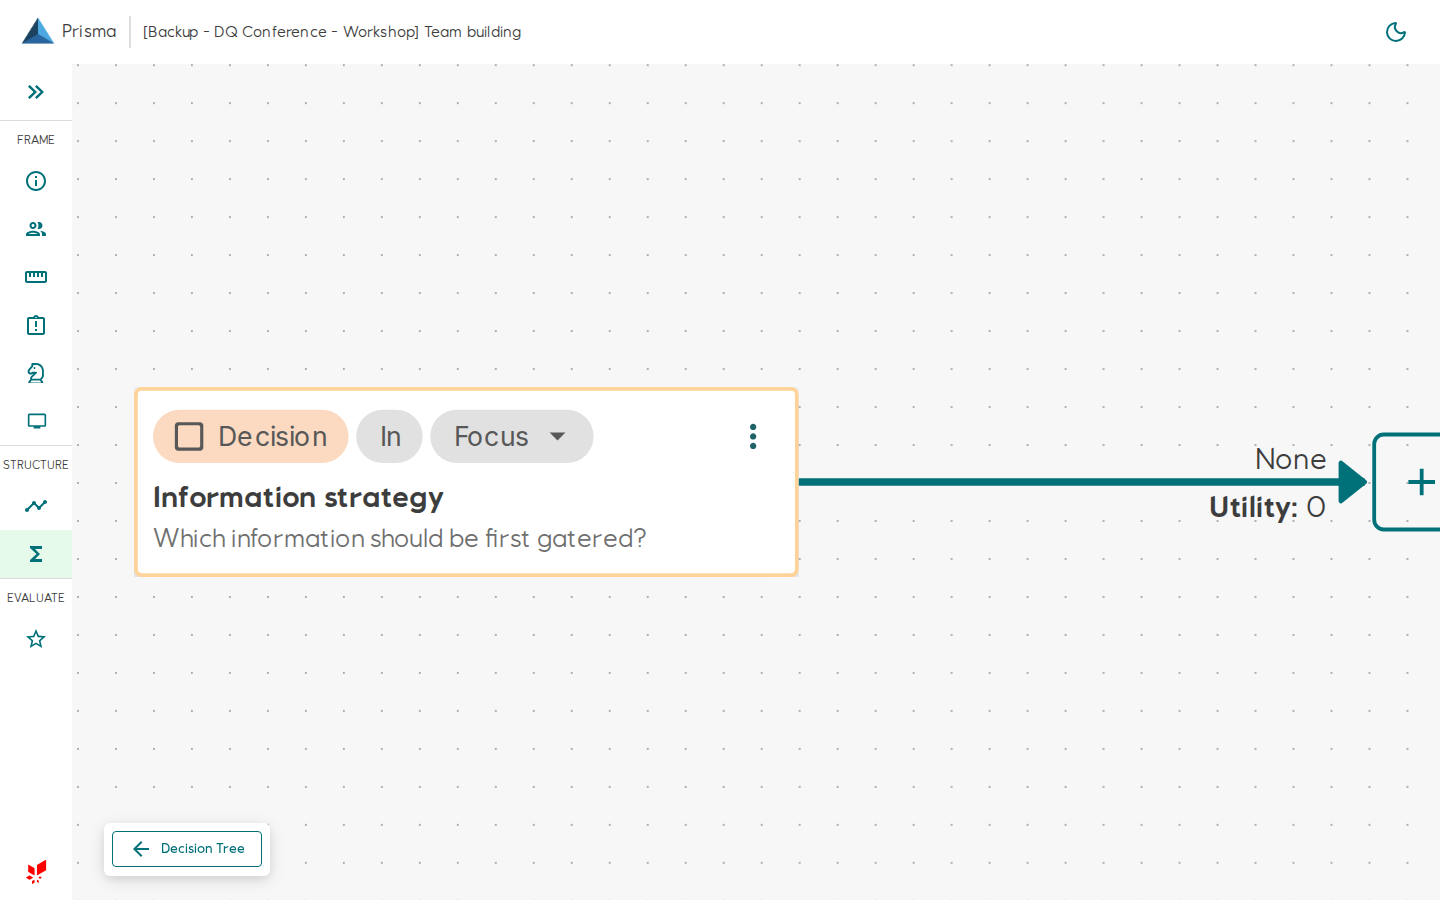
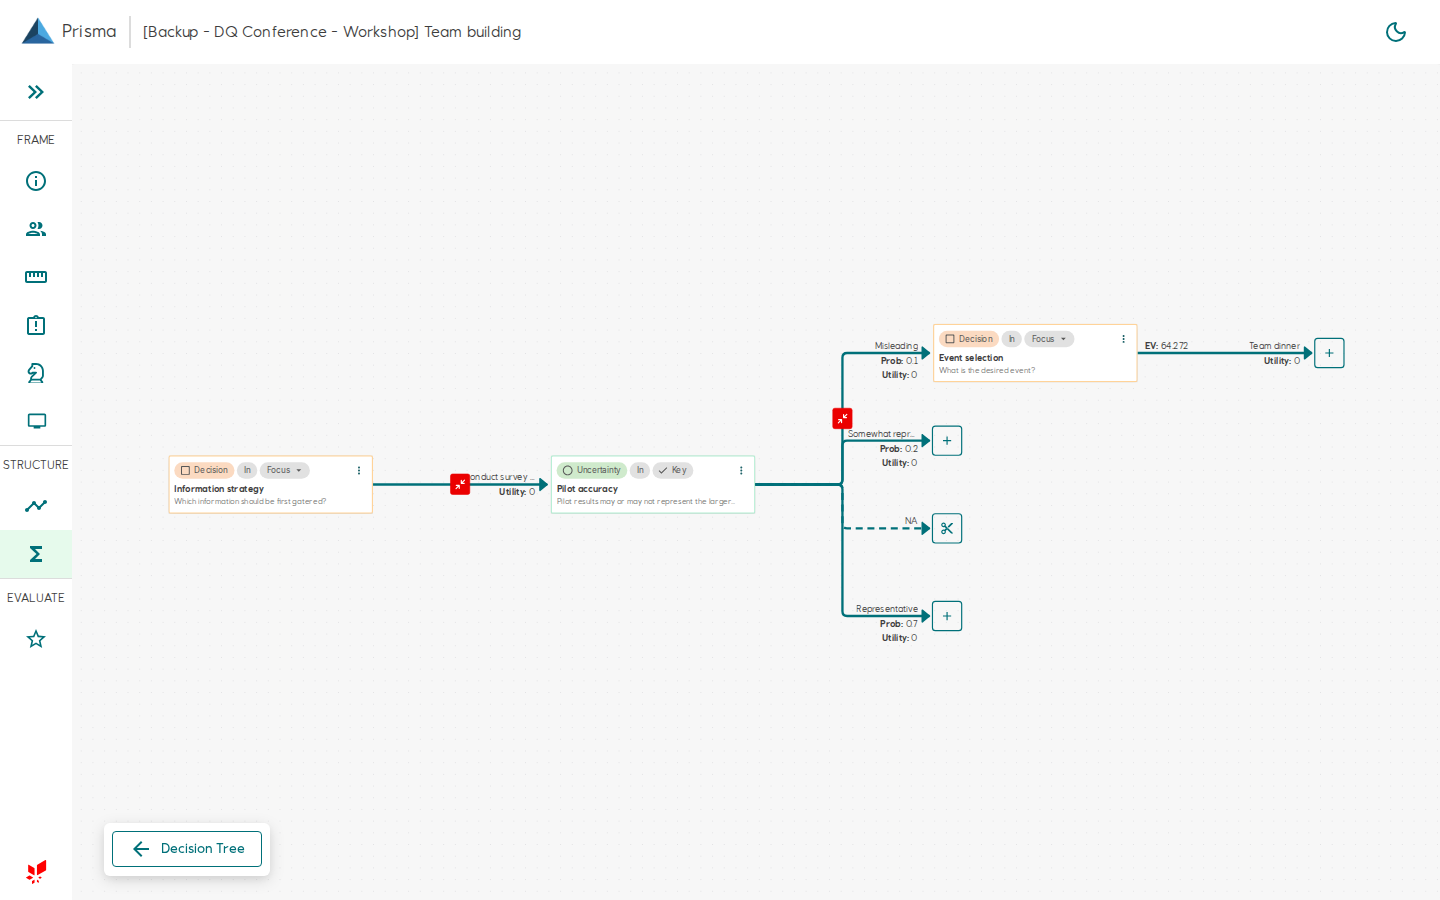
QC until decision tree

diff --git a/workflow/pages/issues.md b/workflow/pages/issues.md
@@ -78,7 +78,7 @@ The information popup explains which issues enter the influence diagram: Focus d
 
 ## Edit issue details
 
-Review the description, boundary, and type-specific details before saving. For a decision, add explicit options and choose **Focus** for the main choice, **Policy** for a choice already taken as given, or **Tactical** for a supporting choice. For an uncertainty, add explicit outcomes and review **Is Key**. A title alone does not provide the states required by the solver. The **Utility** field next to each option or outcome is a value contribution associated with that state, not its probability. For example, an option with a cost of 100 could have utility -100 if the model's values use the same monetary units. These state values contribute to calculated results in addition to values in Utility issue tables, so avoid counting the same effect twice. Leave a state utility at 0 when it has no separate value contribution; this does not mean an uncertainty outcome is impossible. Enter uncertainty probabilities separately in the uncertainty's **Probability Table** on the influence diagram. 
+Review the description, boundary, and type-specific details before saving. For a decision, add explicit options and choose **Focus** for the main choice, **Policy** for a choice already taken as given, or **Tactical** for a supporting choice. For an uncertainty, add explicit outcomes and review **Is Key**. A title alone does not provide the states required by the solver. The **Utility** field next to each option or outcome is a value contribution associated with that state, not its probability. For example, an option with a cost of 100 could have utility -100 if the model's values use the same monetary units. These state values contribute to calculated results in addition to values in Utility issue tables, so avoid counting the same effect twice. Leave a state utility at 0 when it has no separate value contribution; this does not mean an uncertainty outcome is impossible. Enter uncertainty probabilities separately in the uncertainty's **Probability Table** on the influence diagram.
 
 ![Edit Issue window](<../figures/issues/window - Edit Issue.png>)
 

diff --git a/workflow/figures/issues/window - Edit Issue.md b/workflow/figures/issues/window - Edit Issue.md
@@ -1,5 +1,5 @@
 ## Edit an issue
 
-Review the description, boundary, and type-specific details before saving. For a decision, add explicit options and choose **Focus** for the main choice, **Policy** for a choice already taken as given, or **Tactical** for a supporting choice. For an uncertainty, add explicit outcomes and review **Is Key**. A title alone does not provide the states required by the solver. The **Utility** field next to each option or outcome is a value contribution associated with that state, not its probability. For example, an option with a cost of 100 could have utility -100 if the model's values use the same monetary units. These state values contribute to calculated results in addition to values in Utility issue tables, so avoid counting the same effect twice. Leave a state utility at 0 when it has no separate value contribution; this does not mean an uncertainty outcome is impossible. Enter uncertainty probabilities separately in the uncertainty's **Probability Table** on the influence diagram. Use fractions from 0 to 1 and check that each applicable row sums to 1.
+Review the description, boundary, and type-specific details before saving. For a decision, add explicit options and choose **Focus** for the main choice, **Policy** for a choice already taken as given, or **Tactical** for a supporting choice. For an uncertainty, add explicit outcomes and review **Is Key**. A title alone does not provide the states required by the solver. The **Utility** field next to each option or outcome is a value contribution associated with that state, not its probability. For example, an option with a cost of 100 could have utility -100 if the model's values use the same monetary units. These state values contribute to calculated results in addition to values in Utility issue tables, so avoid counting the same effect twice. Leave a state utility at 0 when it has no separate value contribution; this does not mean an uncertainty outcome is impossible. Enter uncertainty probabilities separately in the uncertainty's **Probability Table** on the influence diagram.
 
 ![Edit Issue window](<./window - Edit Issue.png>)

diff --git a/workflow/figures/influence_diagram/window - Utility Table.md b/workflow/figures/influence_diagram/window - Utility Table.md
@@ -1,7 +1,7 @@
 ## Enter values in a utility table
 
-When a value depends only on one decision or uncertainty, enter its contribution in the **Utility** field for each option or outcome in the issue editor; a separate Utility issue is not needed. See the Issues guide for editing issue details. These values are not probabilities.
+When a value depends only on one decision or uncertainty, enter its contribution in the **Utility** field for each option or outcome in the issue editor; a separate Utility issue is not accepted by Prisma. See the Issues guide for editing issue details.
 
-When a value depends jointly on two or more issues, create a **Utility** issue and connect each parent to it. In Card view, open the Utility issue's **Issue actions** menu and select **Utility Table**. Each row represents a combination of parent states; enter its value under **Default metric** and leave the cell to save. The table and solver require at least two parents. State utilities and Utility tables both contribute to the model's total value, so do not count the same effect twice.
+When a value depends jointly on two or more issues, create a **Utility** issue and connect each parent to it. In Card view, open the Utility issue's **Issue actions** menu and select **Utility Table**. Each row represents a combination of parent states; enter its value under **Default metric** and leave the cell to save. State utilities and Utility tables both contribute additively to the model's total value, so do not count the same effect twice.
 
 ![Success utility table with two parent uncertainties](<./window - Utility Table.png>)

diff --git a/workflow/pages/influence_diagram.md b/workflow/pages/influence_diagram.md
@@ -164,7 +164,6 @@ Use the table to see how the recommended choice depends on information available
 
 ![Event selection policy table](<../figures/influence_diagram/window - Policy Table.png>)
 
-
 ## Explore what-if scenarios
 
 In Card view, expand a decision or uncertainty and select an option or outcome. Selecting an option forces that decision; selecting an outcome treats it as hard evidence. Selections can be combined across issues. Select the same state again to deselect it, or select another state on that issue to replace it. In Shape view, hover over a decision or uncertainty and use its states control to make the same selections.
@@ -172,6 +171,5 @@ In Card view, expand a decision or uncertainty and select an option or outcome. 
 The toolbar shows **Base EV** for the unconditioned model and **Scenario EV** for the selected states; the delta is Scenario EV minus Base EV. Wait for recalculation and check for warnings. A scenario is a conditional exploration, not a change to the model's probability inputs or a guaranteed outcome. Clear all selections to return to the baseline.
 
 ![Selected decision and scenario expected value in the influence diagram](<../figures/influence_diagram/page - What-if scenario.png>)
-
 
 [Previous: Whiteboard](./whiteboard.md) | [Workflow](../workflow.md) | [Next: Decision tree](./decision_tree.md)

diff --git a/workflow/figures/decision_tree/card - Leaf node.md b/workflow/figures/decision_tree/card - Leaf node.md
@@ -1,5 +1,5 @@
 ## Recognize a leaf node
 
-The **envelope-shaped** symbol marks a **leaf (terminal) node**: this path has reached its result, with no further decisions or outcomes to expand. It is not an email action. Read **Value** and, when displayed, **Cumulative probability** beside it. Select the symbol to highlight the complete path to that leaf; select the root node to clear the highlight. A plus placeholder means more detail remains hidden, while scissors indicate a pruned path rather than a terminal result.
+The **envelope-shaped** symbol marks a **leaf (terminal) node**: this path has reached its result, with no further decisions or outcomes to expand. Read **Value** and, when displayed, **Cumulative probability** beside it. Select the symbol to highlight the complete path to that leaf; select the root node to clear the highlight. A plus placeholder means more detail remains hidden, while scissors indicate a pruned path rather than a terminal result.
 
 ![Envelope-shaped leaf symbol beside the terminal value and cumulative probability](<./card - Leaf node.png>)

diff --git a/workflow/pages/solution_tree.md b/workflow/pages/solution_tree.md
@@ -8,9 +8,13 @@ Choose **Solution** from the **Decision Tree** sidebar popup to inspect the solu
 
 ## Overview
 
-Use the solution tree representation to examine the solved policy and the paths it displays. Interpret recommendations in the context of the model's objectives, probabilities, values, and information timing; a recommendation is not a guarantee of the eventual outcome.
+Use the solution tree to examine the solved policy and the paths it displays. The example is partially expanded: select a **+** on a branch to reveal the next node, and use the red branch control to collapse it again. Scissors mark pruned branches.
+
+Interpret recommendations in the context of the model's objectives, probabilities, values, and information timing; a recommendation is not a guarantee of the eventual outcome.
 
 ![Solution tree page](<../figures/solution_tree/page - Solution tree.png>)
+
+The solution tree is a pruned version of the decision tree only exhibiting the paths corresponding to the optimum course of action.
 
 ## Inspect a node
 

diff --git a/workflow/figures/decision_tree/page - Decision tree leaf check.md b/workflow/figures/decision_tree/page - Decision tree leaf check.md
@@ -1,5 +1,11 @@
 ## Check branch values near a leaf
 
-On uncertainty branches, **Prob** is the probability of that outcome, shown as a decimal, and **Utility** is the utility assigned to the branch. In this example, `0.25 x 100 + 0.50 x 75 + 0.25 x 25 = 68.75`, matching the **EV** beside the uncertainty node. At each leaf, **Value** is the terminal value and **Cumulative probability** is the probability of the full path. Expand only as far as needed to check a path.
+On uncertainty branches, **Prob** is the probability of that outcome, shown as a decimal, and **Utility** is the utility assigned to the branch. In this example,
+
+$$
+0.25 \times 100 + 0.50 \times 75 + 0.25 \times 25 = 68.75,
+$$
+
+matching the **EV** beside the uncertainty node. At each leaf, **Value** is the terminal value and **Cumulative probability** is the probability of the full path. Expand only as far as needed to check a path.
 
 ![Branch values and leaf calculation details in the decision tree](<./page - Decision tree leaf check.png>)

diff --git a/workflow/figures/solution_tree/page - Solution tree.md b/workflow/figures/solution_tree/page - Solution tree.md
@@ -1,5 +1,9 @@
 ## Read the solution tree
 
-Use the solution tree representation to examine the solved policy and the paths it displays. Interpret recommendations in the context of the model's objectives, probabilities, values, and information timing; a recommendation is not a guarantee of the eventual outcome.
+Use the solution tree to examine the solved policy and the paths it displays. The example is partially expanded: select a **+** on a branch to reveal the next node, and use the red branch control to collapse it again. Scissors mark pruned branches.
+
+Interpret recommendations in the context of the model's objectives, probabilities, values, and information timing; a recommendation is not a guarantee of the eventual outcome.
 
 ![Solution tree page](<./page - Solution tree.png>)
+
+The solution tree is a pruned version of the decision tree only exhibiting the paths corresponding to the optimum course of action.

diff --git a/workflow/figures/stakeholder_matrix/popup - About this view.md b/workflow/figures/stakeholder_matrix/popup - About this view.md
@@ -1,5 +1,5 @@
 ## Interpret the matrix axes
 
-The tooltip explains the two axes. The matrix groups stakeholders as **Partner closely** (high on both axes), **Consult** (highly affected, less influence), **Keep informed** (high influence, less affected), or **Observe** (low on both). Use these groups as prompts for discussing engagement, not as a substitute for understanding a stakeholder's role.
-
 ![Stakeholder matrix explanation tooltip](<./popup - About this view.png>)
+
+The matrix groups stakeholders as **Partner closely** (high on both axes), **Consult** (highly affected, less influence), **Keep informed** (high influence, less affected), or **Observe** (low on both). Use these groups as prompts for discussing engagement, not as a substitute for understanding a stakeholder's role.

diff --git a/workflow/figures/README.md b/workflow/figures/README.md
@@ -35,6 +35,8 @@ Select **Create Issue** to open the form for adding an issue to the project.
 Use angle brackets around image paths containing spaces. Keep links relative to
 the fragment so it renders independently. Avoid page-level navigation or numbered
 process steps inside fragments: the same figure may support different guides.
+Descriptions can also follow the image. When a fragment starts with an image, a
+multi-figure guide section places that image before its subsection heading.
 
 Add the Markdown file before introducing its screenshot in
 [pages.mjs](../../tools/pages.mjs). Recapturing replaces PNGs, not these descriptions.

diff --git a/tools/README.md b/tools/README.md
@@ -86,6 +86,8 @@ continues.
 Decision-tree capture expands one path only as far as a leaf, rather than the
 full tree. It also captures the scissors marker on a pruned branch and the
 envelope-shaped leaf marker with its result labels for the branch-end symbol guide.
+The solution-tree overview expands two branches along a path and fits the result
+to the canvas; the full tree is too dense to read at the standard viewport.
 
 Every figure has an editable Markdown sidecar with the same basename, for example
 `issues/button - Create Issue.png` and `issues/button - Create Issue.md`.

diff --git a/workflow/pages/stakeholder_matrix.md b/workflow/pages/stakeholder_matrix.md
@@ -28,7 +28,6 @@ Hover over the information button to see a short explanation of the matrix axes.
 
 ![Stakeholder matrix explanation tooltip](<../figures/stakeholder_matrix/popup - About this view.png>)
 
-
 ### Interpret the matrix axes
 
 The matrix groups stakeholders as **Partner closely** (high on both axes), **Consult** (highly affected, less influence), **Keep informed** (high influence, less affected), or **Observe** (low on both). Use these groups as prompts for discussing engagement, not as a substitute for understanding a stakeholder's role.
